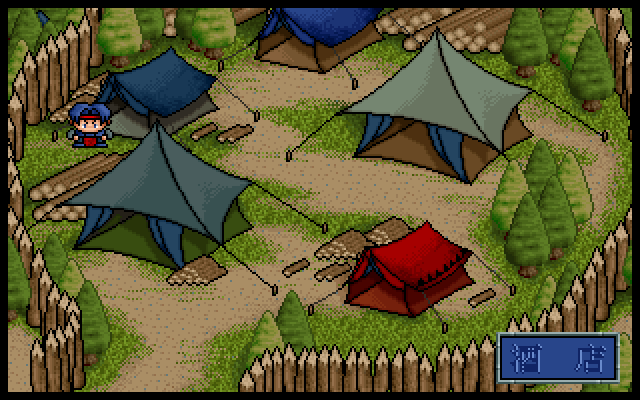
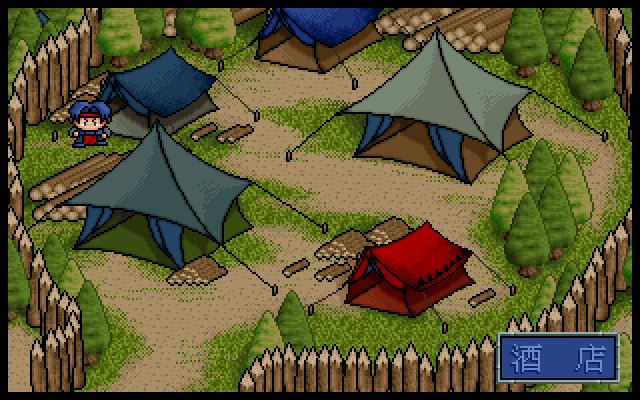
remake: match native town glyphs exactly

Changed region(s): [[0.0938, 0.24, 0.1875, 0.39], [0.7812, 0.84, 0.8438, 0.93], [0.9062, 0.87, 0.9375, 0.93]]

diff --git a/remake/cmd/fd2/native_town_ui_test.go b/remake/cmd/fd2/native_town_ui_test.go
@@ -113,4 +113,79 @@ func TestNativeTownSelectionUsesOriginalLeftRightWrap(t *testing.T) {
 			t.Fatalf("invalid move %#v was accepted", invalid)
 		}
 	}
+
+	g := &Game{
+		campSel:              0,
+		nativeTownUIPulse:    2,
+		nativeTownUILastTick: 321,
+		nativeTownUIHasTick:  true,
+	}
+	if !g.moveNativeTownSelection(1) || g.campSel != 1 {
+		t.Fatalf("runtime move selection=%d", g.campSel)
+	}
+	if g.nativeTownUIPulse != 2 || g.nativeTownUILastTick != 321 ||
+		!g.nativeTownUIHasTick {
+		t.Fatalf(
+			"selection move reset pulse: pulse=%d last=%d has=%v",
+			g.nativeTownUIPulse, g.nativeTownUILastTick,
+			g.nativeTownUIHasTick,
+		)
+	}
+}
+
+func TestNativeTownShotStateIsStrictAndTownOnly(t *testing.T) {
+	for _, tc := range []struct {
+		spec      string
+		selection int
+		pulse     int
+		ok        bool
+	}{
+		{spec: "0,0", selection: 0, pulse: 0, ok: true},
+		{spec: "5,3", selection: 5, pulse: 3, ok: true},
+		{spec: "6,0"},
+		{spec: "0,4"},
+		{spec: "1"},
+		{spec: "1,2,3"},
+		{spec: "x,0"},
+	} {
+		selection, pulse, ok := parseNativeTownShotState(tc.spec)
+		if ok != tc.ok || selection != tc.selection || pulse != tc.pulse {
+			t.Fatalf(
+				"parseNativeTownShotState(%q)=(%d,%d,%v), want (%d,%d,%v)",
+				tc.spec, selection, pulse, ok,
+				tc.selection, tc.pulse, tc.ok,
+			)
+		}
+	}
+
+	variant := 0
+	g := &Game{
+		nativeTownUI: &nativeTownUIAssets{},
+		camp: &campaign.Runner{
+			Cur: "town",
+			C: &campaign.Campaign{
+				Nodes: map[string]*campaign.Node{
+					"town": {Type: "town", NativeTownVariant: &variant},
+				},
+			},
+		},
+		nativeTownUIHasTick:  true,
+		nativeTownUILastTick: 123,
+	}
+	if !g.setNativeTownShotState(1, 2) {
+		t.Fatal("native town screenshot state rejected")
+	}
+	if g.campSel != 1 || g.nativeTownUIPulse != 2 ||
+		g.nativeTownUIHasTick || g.nativeTownUILastTick != 0 {
+		t.Fatalf(
+			"shot state=(selection=%d pulse=%d hasTick=%v last=%d)",
+			g.campSel, g.nativeTownUIPulse,
+			g.nativeTownUIHasTick, g.nativeTownUILastTick,
+		)
+	}
+
+	g.camp.C.Nodes["town"] = &campaign.Node{Type: "choice"}
+	if g.setNativeTownShotState(0, 0) {
+		t.Fatal("non-town screenshot state accepted")
+	}
 }

diff --git a/remake/cmd/fd2/native_town_ui.go b/remake/cmd/fd2/native_town_ui.go
@@ -3,6 +3,8 @@ package main
 import (
 	"errors"
 	"path/filepath"
+	"strconv"
+	"strings"
 
 	"github.com/hajimehoshi/ebiten/v2"
 	"github.com/wicanr2/fd2_re/remake/internal/campaign"
@@ -10,6 +12,40 @@ import (
 
 type nativeTownUIAssets struct {
 	scene *campaign.NativeTownAssets
+}
+
+func parseNativeTownShotState(spec string) (selection, pulse int, ok bool) {
+	parts := strings.Split(spec, ",")
+	if len(parts) != 2 {
+		return 0, 0, false
+	}
+	selection, err := strconv.Atoi(parts[0])
+	if err != nil || selection < 0 || selection > 5 {
+		return 0, 0, false
+	}
+	pulse, err = strconv.Atoi(parts[1])
+	if err != nil || pulse < 0 || pulse > 3 {
+		return 0, 0, false
+	}
+	return selection, pulse, true
+}
+
+// setNativeTownShotState is an explicit screenshot-only oracle hook. It
+// refuses to create town state outside a native town node and resets the
+// clock so Update cannot advance the requested pulse before the next Draw.
+func (g *Game) setNativeTownShotState(selection, pulse int) bool {
+	if selection < 0 || selection > 5 || pulse < 0 || pulse > 3 ||
+		g.camp == nil || g.nativeTownUI == nil {
+		return false
+	}
+	n := g.camp.Node()
+	if n == nil || n.Type != "town" || n.NativeTownVariant == nil {
+		return false
+	}
+	g.campSel = selection
+	g.resetNativeTownUIPulse()
+	g.nativeTownUIPulse = pulse
+	return true
 }
 
 // nativeTownMoveSelection preserves 0x2cf01..0x2cf65: right decrements and
@@ -28,6 +64,17 @@ func nativeTownMoveSelection(selection, delta int) (int, bool) {
 		selection = 0
 	}
 	return selection, true
+}
+
+// moveNativeTownSelection changes only the selector. The original
+// 0x2ce7a/0x2ceac branches do not write the shared pulse counter at 0x54133.
+func (g *Game) moveNativeTownSelection(delta int) bool {
+	selection, ok := nativeTownMoveSelection(g.campSel, delta)
+	if !ok {
+		return false
+	}
+	g.campSel = selection
+	return true
 }
 
 func loadNativeTownUIAssets() (*nativeTownUIAssets, error) {

diff --git a/remake/internal/fdtxt/fdtxt_test.go b/remake/internal/fdtxt/fdtxt_test.go
@@ -77,8 +77,40 @@ func TestBlitNativeGlyphMatchesForegroundShadowAndBackgroundABI(t *testing.T) {
 	if err := f.BlitNativeGlyph(dst, 20, base, 0, NativeGlyphStyle{Foreground: 0xcd, Shadow: 0x4c, Background: 3}); err != nil {
 		t.Fatal(err)
 	}
-	if dst[base] != 0xcd || dst[base-1] != 0x4c || dst[base+20] != 0x4c || dst[base+1] != 3 || dst[base+15*20+15] != 3 {
-		t.Fatalf("native glyph pixels=%#x %#x %#x %#x %#x", dst[base], dst[base-1], dst[base+20], dst[base+1], dst[base+15*20+15])
+	if dst[base] != 0xcd || dst[base+20-1] != 0x4c || dst[base+20] != 0x4c || dst[base-1] != 7 || dst[base+1] != 3 || dst[base+15*20+15] != 3 {
+		t.Fatalf(
+			"native glyph pixels=%#x %#x %#x %#x %#x %#x",
+			dst[base], dst[base+20-1], dst[base+20],
+			dst[base-1], dst[base+1], dst[base+15*20+15],
+		)
+	}
+}
+
+func TestBlitNativeGlyphAdjacentForegroundIsNotOverwrittenByShadow(t *testing.T) {
+	data := make([]byte, GlyphBytes)
+	data[0] = 0xc0 // adjacent x=0 and x=1 source bits
+	f, err := ParseFont(data)
+	if err != nil {
+		t.Fatal(err)
+	}
+	dst := make([]byte, 20*18)
+	base := 21
+	if err := f.BlitNativeGlyph(
+		dst, 20, base, 0,
+		NativeGlyphStyle{Foreground: 0xcd, Shadow: 0x4c},
+	); err != nil {
+		t.Fatal(err)
+	}
+	if dst[base] != 0xcd || dst[base+1] != 0xcd {
+		t.Fatalf(
+			"adjacent foreground overwritten: %#x %#x",
+			dst[base], dst[base+1],
+		)
+	}
+	for _, pos := range []int{base + 20 - 1, base + 20, base + 20 + 1} {
+		if dst[pos] != 0x4c {
+			t.Fatalf("shadow at %d=%#x", pos, dst[pos])
+		}
 	}
 }
 

diff --git a/remake/cmd/fd2/main.go b/remake/cmd/fd2/main.go
@@ -2693,24 +2693,13 @@ func (g *Game) campInput() bool {
 			if scanCode, ok := pressedNativeTownSecretScan(); ok &&
 				g.camp.MatchNativeTownSecret(g.campSel, scanCode) {
 				g.campSel = 5
-				g.resetNativeTownUIPulse()
 				return true
 			}
 			if inpututil.IsKeyJustPressed(ebiten.KeyArrowRight) {
-				if selection, ok := nativeTownMoveSelection(
-					g.campSel, -1,
-				); ok {
-					g.campSel = selection
-				}
-				g.resetNativeTownUIPulse()
+				g.moveNativeTownSelection(-1)
 			}
 			if inpututil.IsKeyJustPressed(ebiten.KeyArrowLeft) {
-				if selection, ok := nativeTownMoveSelection(
-					g.campSel, 1,
-				); ok {
-					g.campSel = selection
-				}
-				g.resetNativeTownUIPulse()
+				g.moveNativeTownSelection(1)
 			}
 			if enter {
 				if g.camp.ConfirmNativeTownSecret(g.campSel) {
@@ -4695,6 +4684,15 @@ func (g *Game) Update() error {
 		// FD2_SHOT_RING on battle-start event scenarios.
 		if !g.shotSetup && g.frame >= g.shotFrame-1 {
 			g.shotSetup = true
+			if spec := os.Getenv("FD2_SHOT_TOWN_STATE"); spec != "" {
+				selection, pulse, ok := parseNativeTownShotState(spec)
+				if !ok || !g.setNativeTownShotState(selection, pulse) {
+					return fmt.Errorf(
+						"FD2_SHOT_TOWN_STATE expects selection 0..5,pulse 0..3 on a native town node: %q",
+						spec,
+					)
+				}
+			}
 			if os.Getenv("FD2_SHOT_DISMISS_DIALOG") != "" {
 				for len(g.dialog) > 0 {
 					g.dialog = g.dialog[:len(g.dialog)-1]

diff --git a/remake/internal/fdtxt/fdtxt.go b/remake/internal/fdtxt/fdtxt.go
@@ -158,9 +158,8 @@ func (f *Font) BlitGlyph(dst []byte, stride, base, index int, color byte) error 
 }
 
 // NativeGlyphStyle is the exact visible colour portion of 0x4ea2a's ABI.
-// Foreground is written for each set 1bpp source bit; Shadow is written one
-// pixel to its left and one row below; Background fills the 16x16 cell only
-// when it is non-zero.
+// Foreground is written for each set 1bpp source bit; Shadow is written on the
+// next row at x-1 and x. Background fills the 16x16 cell only when non-zero.
 type NativeGlyphStyle struct {
 	Foreground byte
 	Shadow     byte
@@ -192,7 +191,7 @@ func (f *Font) BlitNativeGlyph(dst []byte, stride, base, index int, style Native
 			}
 			pos := base + y*stride + x
 			dst[pos] = style.Foreground
-			dst[pos-1] = style.Shadow
+			dst[pos+stride-1] = style.Shadow
 			dst[pos+stride] = style.Shadow
 		}
 	}

diff --git a/remake/internal/campaign/native_class_list_test.go b/remake/internal/campaign/native_class_list_test.go
@@ -89,8 +89,11 @@ func TestRenderNativeClassListRowsMatches31019CoordinatesAndColours(t *testing.T
 	if got := dst[(121+26)*320+40]; got != 201 {
 		t.Fatalf("selected foreground=%d want 201", got)
 	}
-	if got := dst[121*320+39]; got != 76 {
+	if got := dst[122*320+39]; got != 76 {
 		t.Fatalf("native shadow=%d want 76", got)
+	}
+	if got := dst[121*320+39]; got != 0 {
+		t.Fatalf("same-row shadow=%d want 0", got)
 	}
 	if got := dst[121*320+175]; got != 205 {
 		t.Fatalf("FDTXT593 foreground=%d want 205", got)

diff --git a/remake/internal/campaign/native_roster_list_test.go b/remake/internal/campaign/native_roster_list_test.go
@@ -65,8 +65,11 @@ func TestRenderNativeRosterRowsMatches2EA90Geometry(t *testing.T) {
 	if got := dst[147*320+172]; got != 201 {
 		t.Fatalf("selected row3 foreground=%d want 201", got)
 	}
-	if got := dst[147*320+171]; got != 76 {
+	if got := dst[148*320+171]; got != 76 {
 		t.Fatalf("selected row3 shadow=%d want 76", got)
+	}
+	if got := dst[147*320+171]; got != 0 {
+		t.Fatalf("selected row3 same-row shadow=%d want 0", got)
 	}
 }
 

diff --git a/docs/knowledge-base/91-worklist.md b/docs/knowledge-base/91-worklist.md
@@ -8,7 +8,7 @@
 
 - [x] 逐項重審 title、field/HUD、action/target、dialogue、battle、postbattle、town、shop、church、preparation、save/load、ending；town indexed production接線後，完整操作界面視覺還原估計40–45%，不能以75–85%的asset/codec完成度代替。
 - [x] README撤回將 `docs/figures/title.png`／`dialogue.png` 標成 remake runtime對照；兩張是raw decode／字型研究圖。
-- [~] **UI-VIS-TOWN**：`0x2cd16/0x2cf71/0x11eb0`已閉合3個FDOTHER背景variant、#10 label、FDTXT `0x1ef+selection`、FDICON `0,1,2,1` pulse、6組variant座標與312×192→VGA `(4,4)`；23個town保存raw `native_town_variant`。ch02 variant0／selection0 已取得原版 DOSBox [`pair`](../figures/town-hub-original-vs-remake.png)／[`diff`](../figures/town-hub-pixel-diff.png)，遮蔽角色與標籤 pulse 區後兩幀 RGB MD5 完全相同。尚缺同 tick pulse、variant1/2、selection1–5、左右鍵與secret chord E2。
+- [~] **UI-VIS-TOWN**：`0x2cd16/0x2cf71/0x11eb0`已閉合3個FDOTHER背景variant、#10 label、FDTXT `0x1ef+selection`、FDICON `0,1,2,1` pulse、6組variant座標與312×192→VGA `(4,4)`；23個town保存raw `native_town_variant`。ch02 variant0 的 [`selection0/pulse2`](../figures/town-hub-original-vs-remake.png) 與 [`Left→selection1/pulse2`](../figures/town-hub-selection1-original-vs-remake.png) 均達原版／remake raw RGB 整幀相同；共用 glyph shadow 與方向鍵誤 reset pulse 已修正。尚缺variant1/2、selection2–5、Right/wrap與secret chord E2。
 - [~] **UI-VIS-SHOP**：stable scene／service icons見[`native-shop-scene-indexed.png`](../figures/native-shop-scene-indexed.png)；四個callee與secret selection+BIOS-scan gate皆已接production。下一gate是variant1/3/5、secret chord與town restore的DOSBox同狀態diff。
 - [x] **UI-SHOP-STANDALONE-EQUIP-PRODUCTION**：Docker Capstone重讀`0x2f883/0x1bffe/0x17e0b/0x1b9de`，撤回「獨立裝備沿用purchase商品／收件者widget」的假設。production現走service2→兩欄角色roster→11→0完整item/status panel；相容item經`0x1c1c3→0x1c142→0x1b750`原地更新flags/能力並重畫，incompatible無發明feedback，離開0→11 restore shop再回roster。`EquipNativeCompactSlot`驗證raw occupied order與compact inventory/equipped一致，保留ignored raw hole/stale byte，divergence原子拒絕。Docker/Xvfb production regression通過；DOSBox E2仍待。
 - [x] **UI-SHOP-TRANSFER-PRODUCTION**：`0x2f8ea`同時由shop service3與church raw1呼叫，不是任一場景專屬。shop production已接FDTXT512 source prompt→全party roster→FDTXT511 empty或`0x2dc55(mode1)` item list→FDTXT510→全party destination roster→FDTXT506 full或raw remove/append/recalc→512 loop。重核撤回「destination排除source」的高階假設：source本人保留為候選，未滿欄時self-transfer會把item以unequipped狀態移到尾端。`ValidateNativeInventoryProjection`與full raw-flag gate原子拒絕投影分歧；Docker/Xvfb production、empty/full/self regression通過。
@@ -38,7 +38,9 @@
 - [x] **UI-01-TITLE-TRACE**：新增純 `TitleMenuState`／`TitleSlotState`，保存原版主選單三項 wrap、24-tick confirm flash、load branch 與 `0x30550` 四槽 bounded/no-wrap/cancel contract；`titleUpdate` 的 Ebiten input 已改走同一 state transition，Docker/Xvfb regression 可重播 selection/action trace。仍不宣稱原版逐幀 visual parity 或 FD2.SAV 相容。
 - [x] **UI-07-08-CAMPAIGN-MENU-TRACE**：新增 `campaign.MenuState`，將 `choice/town` hub 的 bounded cursor、空選項 fail-closed 與 confirm→`optN` transition 抽成純 state contract；`campInput` 已共用該 contract，internal/campaign 與 Docker/Xvfb focused regression 通過。未命名 town service、未跳過 handler，逐章 route/E2 仍是 partial。
 - [x] **UI-08-TOWN-HUB-SOURCE-SCREENSHOT**：用目前 source 在 `fd2-go-test-local` 內重新 build（不使用舊 `fd2-linux`），以 `FD2_CAMP_NODE=town_ch02`、frame 30 產生 [`town-hub-remake.png`](../figures/town-hub-remake.png) 並加入 README；這是 remake current artifact，不是原版 visual parity。
-- [x] **UI-08-TOWN-HUB-CH02-E2-SLICE**：在隔離 `/tmp` game sandbox 只以 route patch 跳過戰鬥勝負判定，原版 postbattle handler／campaign gate／town resources 均照常執行；走完20次戰後對話確認，第21次取得 ch02 variant0／selection0 的 [`DOSBox frame`](../figures/town-hub-original-dosbox.png)。與 production remake 無插值縮成320×200後，差異只在未對齊 tick 的角色與標籤 pulse；遮蔽兩區後 raw RGB frame MD5 同為 `d34b124775795f816209e53db603840a`。這不證明 route patch 是原版玩法，也不解除其他 variant/input 的 E2 gate。
+- [x] **UI-08-TOWN-HUB-CH02-E2-SLICE**：在隔離 `/tmp` game sandbox 只以 route patch 跳過戰鬥勝負判定，原版 postbattle handler／campaign gate／town resources 均照常執行；走完20次戰後對話確認，第21次取得 ch02 town。初次 diff 抓到 `BlitNativeGlyph` 把 `0x4ea2a` 的 shadow 誤寫同列左側；修正為下一列左下／正下後，selection0/pulse2 與 Left→selection1/pulse2 的320×200 raw RGB MD5分別整幀相同。這不證明 route patch 是原版玩法，也不解除其他 variant/input 的 E2 gate。
+- [x] **RE-FDTXT-GLYPH-SHADOW-4EA2A**：Docker Capstone 指令級確認 foreground→`edi`、shadow→`edi+(stride-1)`／`edi+stride`；撤回同列`edi-1` shadow 的錯誤 ABI 與兩個保護錯誤位址的 roster/class tests。共用 `BlitNativeGlyph`、相鄰筆畫 regression 與 consumer tests 已修；town selection0/1 E2 整幀 hash 是直接 visual oracle。
+- [x] **UI-08-TOWN-DETERMINISTIC-SHOT-STATE**：新增 screenshot-only `FD2_SHOT_TOWN_STATE=selection,pulse`，只接受 native town 的 selection0..5／pulse0..3，非法值 fail closed；正常 input 不讀此 hook。`0x2ce7a/0x2ceac/0x2cef7` 無 `[0x54133]` writer，故方向鍵／secret reveal 不再猜測性 reset pulse。
 - [x] **UI-VERTICAL-CH02-TOWN-PREPARATION**：將 `Game.stepCampaignMenu` 接到 `campInput`，新增 `TestCampaignTownPreparationInputTrace`，以 `down,down,enter(opt2)` 驗證 `town_ch02→preparation_ch02→story_ch02_pre→battle_ch02`；保存可編輯 trace [`town-preparation-ch02.json`](../data/ui-traces/town-preparation-ch02.json) 與目前 source rebuild 的 [`preparation-current-remake.png`](../figures/preparation-current-remake.png)。這是第一個 campaign/UI state vertical closure，仍不等於逐章原版 parity。
 - [x] **UI-VERTICAL-CH02-TOWN-SHOP-RETURN**：新增 `Game.leaveShop` 與 `TestCampaignTownShopPurchaseReturnTrace`，驗證 `town_ch02→shop_ch02_weapon`、reserve 不先扣金、finalize 後回 town；保存 [`town-shop-ch02.json`](../data/ui-traces/town-shop-ch02.json) 與 source rebuild 的 [`shop-current-remake.png`](../figures/shop-current-remake.png)。這只閉合 remake shop/campaign boundary，不命名 native shop callee 或宣稱原版 parity。
 

diff --git a/docs/knowledge-base/SESSION-HANDOFF-2026-07-06.md b/docs/knowledge-base/SESSION-HANDOFF-2026-07-06.md
@@ -1499,8 +1499,30 @@ slot6 active 條件、SPAWN2、兩段 PAN、800/200ms 與 FDTXT_003 #4 七句也
   timeline steps；參數不合法即 exit 2。
 - 保存 [`town-hub-original-dosbox.png`](../figures/town-hub-original-dosbox.png)、
   [`town-hub-original-vs-remake.png`](../figures/town-hub-original-vs-remake.png)
-  與 [`town-hub-pixel-diff.png`](../figures/town-hub-pixel-diff.png)。原版與
-  remake 無插值縮成320×200後，差異只出現在角色與標籤 pulse；遮蔽
-  `(30,45,32,35)`、`(245,162,70,35)` 後 raw RGB MD5 均為
-  `d34b124775795f816209e53db603840a`。因此背景／viewport／label frame 的
-  ch02 E2 slice 已閉合，same-tick pulse、variant1/2、selection1–5與輸入仍未閉合。
+  與 [`town-hub-pixel-diff.png`](../figures/town-hub-pixel-diff.png)。初次 capture
+  只證明遮罩外一致；下一節已修正 glyph shadow 並取得 selection0/1 整幀相同，
+  因此本段的 masked hash 不再是目前最高證據。
+
+## 2026-07-28 town glyph shadow correction and two-state exact E2
+
+- DOSBox selection1 pulse 階梯顯示角色 sprite 可與 remake 完全相同，但中文
+  「武器店」仍殘缺，推翻「剩餘差異只是未同步 pulse」的斷言。Docker Capstone
+  重讀 `0x4ea2a`：set bit 先寫 foreground 到 `edi`，shadow 寫到
+  `edi+(stride-1)` 與 `edi+stride`；現有 `BlitNativeGlyph` 第一個 shadow
+  誤寫成同列 `edi-1`，會覆蓋相鄰 foreground。
+- `BlitNativeGlyph` 已修成下一列左下／正下，新增 adjacent source bits
+  regression，防止 shadow 再覆蓋連續筆畫。這是所有使用此共用 primitive 的
+  town/shop/church indexed text 修正，不只是一張 town 圖的特例。
+- 新增 strict screenshot-only `FD2_SHOT_TOWN_STATE=selection,pulse`；
+  selection 必須0..5、pulse必須0..3，且目前必須是有 native variant 的 town
+  node，否則 Update 回錯且不產生錯狀態 artifact。它只固定 oracle state，
+  不改正常玩家輸入。
+- `0x2ce7a/0x2ceac` 方向鍵只改 `[0x5412b]`，`0x2cef7` secret chord 也只寫5；
+  三者都不寫 pulse counter `[0x54133]`。remake 已刪除移動／reveal 時強制
+  reset pulse0 的錯誤行為；只有 screenshot hook 為下一次 Draw 固定指定 phase。
+- ch02 variant0 selection0/pulse2 原版與 remake 320×200 raw RGB MD5 均為
+  `8a6a4b03946d1958d3af95fd4bd775c3`，更新後
+  [`pixel diff`](../figures/town-hub-pixel-diff.png) 全黑。Left 後
+  selection1/pulse2 的 [`pair`](../figures/town-hub-selection1-original-vs-remake.png)
+  亦整幀相同，MD5 均為 `60a4791d60b32fd6efc82864afd63525`。
+  尚未閉合 variant1/2、selection2–5、Right/wrap、secret reveal/confirm。
